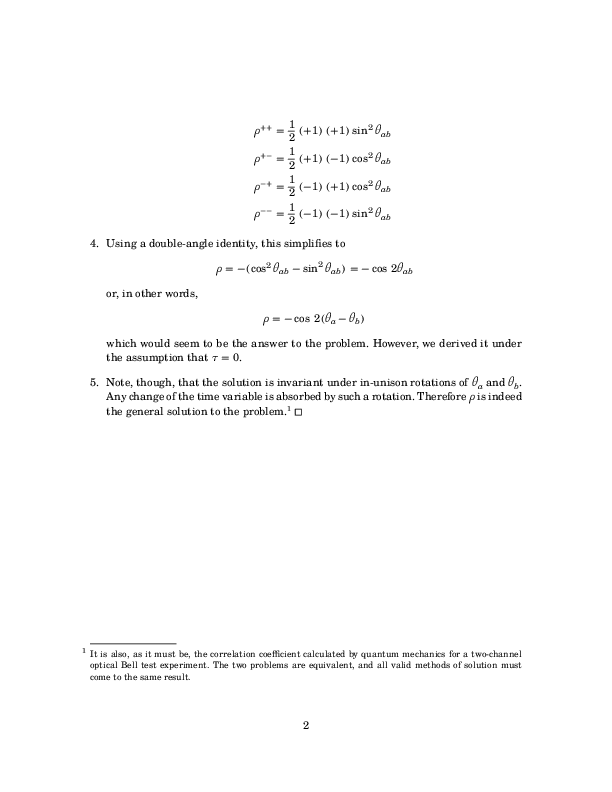
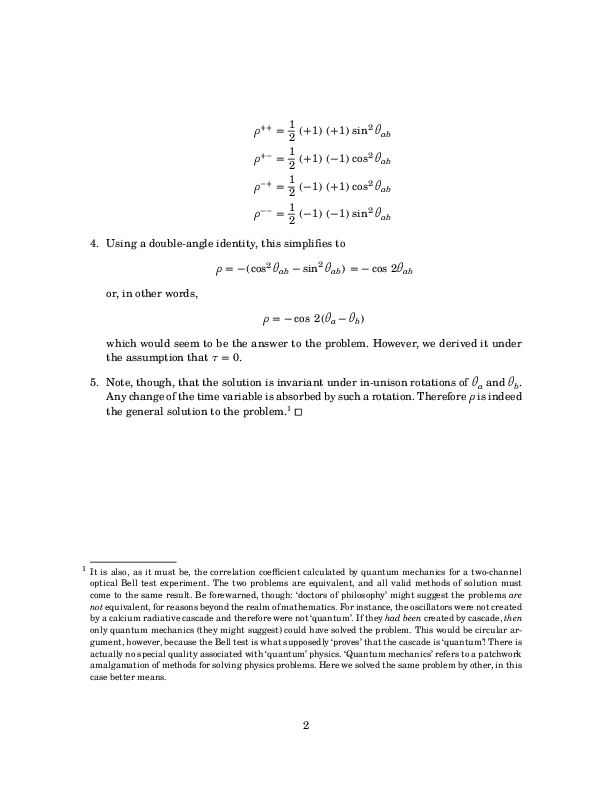
Expand the footnote.

Changed region(s): [[0.1242, 0.697, 0.8693, 0.8788]]

diff --git a/Two-Oscillators/Two-Oscillators.tex b/Two-Oscillators/Two-Oscillators.tex
@@ -143,7 +143,19 @@
     it must be, the correlation coefficient calculated by quantum
     mechanics for a two-channel optical Bell test experiment. The two
     problems are equivalent, and all valid methods of solution must
-    come to the same result.}~$\square$
+    come to the same result. Be forewarned, though: ‘doctors of
+    philosophy’ might suggest the problems {\it are not\/} equivalent,
+    for reasons beyond the realm of mathematics. For instance, the
+    oscillators were not created by a calcium radiative cascade and
+    therefore were not ‘quantum’. If they {\it had been\/} created by
+    cascade, {\it then\/} only quantum mechanics (they might suggest)
+    could have solved the problem. This would be circular argument,
+    however, because the Bell test is what supposedly ‘proves’ that
+    the cascade is ‘quantum’! There is actually no special quality
+    associated with ‘quantum’ physics. ‘Quantum mechanics’ refers to a
+    patchwork amalgamation of methods for solving physics
+    problems. Here we solved the same problem by other, in this case
+    better means.}~$\square$
 
 \stopitemize
 
